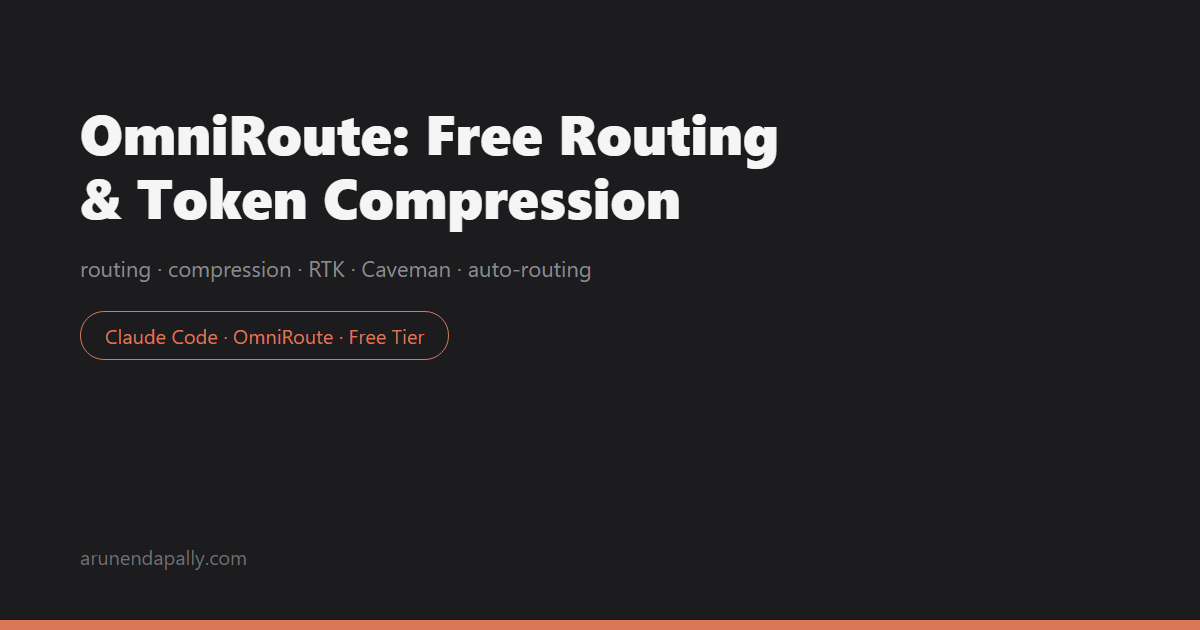
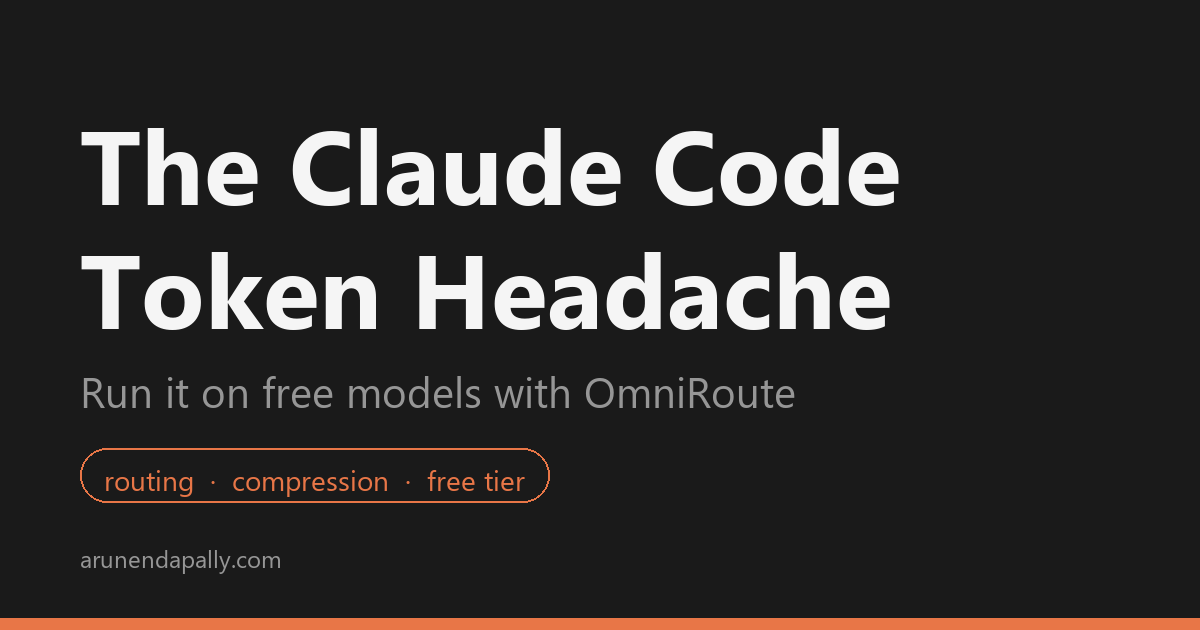
Update the OmniRoute post with measured compression numbers
Publishes the real RTK figures (204 requests, 885,430 tokens filtered,
5 percent average) alongside the 78-95 percent the docs quote, swaps the
all-zeros RTK screenshot for the live one and reworks the prose around it,
shortens the mermaid gateway node that rendered truncated, and regenerates
the social card for the current title.

diff --git a/_posts/2026-08-07-omniroute-free-tier-routing-and-compression.md b/_posts/2026-08-07-omniroute-free-tier-routing-and-compression.md
@@ -36,7 +36,7 @@ Here's what it changes, what the settings actually do, and how I checked that no
 > - Setup is `npm install -g omniroute`, then `ANTHROPIC_BASE_URL` to `http://localhost:20128` and `ANTHROPIC_MODEL` to `auto/best-free` in `settings.json`.
 > - `auto/best-free` is a **virtual model**, resolved per request from the providers you've connected, with a fallback chain and circuit breakers underneath it.
 > - Connect your first provider from **Providers → No Auth**, which needs no credentials. NVIDIA NIM is the best free tier I've added since, and it imports 51 free models.
-> - **Stacked compression** runs RTK then Caveman: tool output first, prose second, with code, paths and URLs left untouched.
+> - **Stacked compression** runs RTK then Caveman: tool output first, prose second, with code, paths and URLs left untouched. Early numbers on my own traffic: **5 percent** from RTK, not the 78 to 95 percent the docs quote.
 > - Don't trust the dashboard or the CLI on whether it's working. **Read the response headers**: `x-omniroute-decision` and `x-omniroute-compression` tell you what actually happened. I tuned a compression panel for a while with the master switch off.
 > - Free tiers are shared, rate-limited capacity. I build on them; **code review still goes to Anthropic**.
 {: .prompt-tip }
@@ -67,7 +67,7 @@ OmniRoute exposes the Anthropic Messages API, so Claude Code talks to it exactly
 ```mermaid
 flowchart LR
     A["Claude Code"] -->|"direct"| B["Anthropic API"]
-    A -->|"localhost:20128"| C["OmniRoute: auto-routing + stacked compression"]
+    A -->|"localhost:20128"| C["OmniRoute gateway"]
     C --> D["Free Provider 1"]
     C --> E["Free Provider 2"]
     C --> F["Free Provider 3"]
@@ -164,13 +164,15 @@ Most of what Claude Code sends is code, file paths, and terminal output, and non
 - **RTK** handles command output: dedupes repetitive tool noise, keeps raw output where it matters.
 - **Caveman** handles prose: compresses natural language while leaving code blocks, URLs, file paths, and error lines untouched, byte for byte.
 
-"Stacked" means both run in sequence, so the savings multiply rather than add: `1 - (1 - RTK) * (1 - Caveman)`. On tool-heavy sessions the docs quote 78 to 95 percent token savings. I haven't measured my own ratio, so I can't confirm the number: what I verified is that compression was actually running, using the header further down, and that I stopped running out mid-session.
+"Stacked" means both run in sequence, so the savings multiply rather than add: `1 - (1 - RTK) * (1 - Caveman)`. On tool-heavy sessions the docs quote 78 to 95 percent token savings. I'm early with this, and my own numbers are much smaller: after 204 requests, the RTK panel reports 885,430 tokens filtered at 5 percent average savings. That's RTK on its own, with Caveman counted separately, and it is real saving on a tier I'm not paying for. It's also nowhere near the headline figure, and the gap makes sense: how much RTK can strip depends on how much of your context is repetitive tool output, and mine is mostly code. Read your own panel rather than planning around anyone's number, including mine.
 
 I turned it on from **Settings → Compression** in the dashboard, picked **Standard Savings** (which maps to the `rtk → caveman` pipeline), and then spent a while tuning something that wasn't running.
 
-![OmniRoute RTK engine settings page showing 55 filters active, zero tokens filtered, zero requests, 0% average savings, and a warning that the Token Saver master switch is off](/assets/img/posts/omniroute/rtk-engine.png)
+Fifty-five filters active, max lines, dedupe threshold, a full filter catalog: the page reads like a control panel that's doing something even when it isn't. The master switch was off, and the three counters that would have told me so were all sitting at zero above the fold. I changed the dedupe threshold twice before I read the amber banner. A settings screen that looks alive is more convincing than a counter that says zero, which is worth knowing before you tune anything here.
 
-Fifty-five filters active, max lines, dedupe threshold, a full filter catalog: the page reads like a control panel that's doing something. It isn't. The master switch is off, and the three counters that would have told me so are sitting at 0 above the fold. I changed the dedupe threshold twice before I read the amber banner. A settings screen that looks alive is more convincing than a counter that says zero, which is worth knowing before you tune anything here.
+![OmniRoute RTK engine page with compression running: 885,430 tokens filtered, 55 filters active, 204 requests, 5% average savings, with max lines, max chars and deduplicate threshold settings below, and the other compression engines listed down the sidebar](/assets/img/posts/omniroute/rtk-engine.png)
+
+That's the same page with the switch on: 204 requests through it and the counters moving. Check those three first, because they answer "is this doing anything at all" before any setting below them matters. Worth noticing that **Code blocks** is unchecked, which is sensible (you don't want a filter rewriting your code) and is also the likeliest reason my average sits at 5 percent, since code is most of what I send.
 
 There's a second version of the same trap. The CLI's `omniroute compression status` can report the panel default even while a different profile is active at runtime. Don't trust that command on its own. Trust the header on a live request instead:
 
